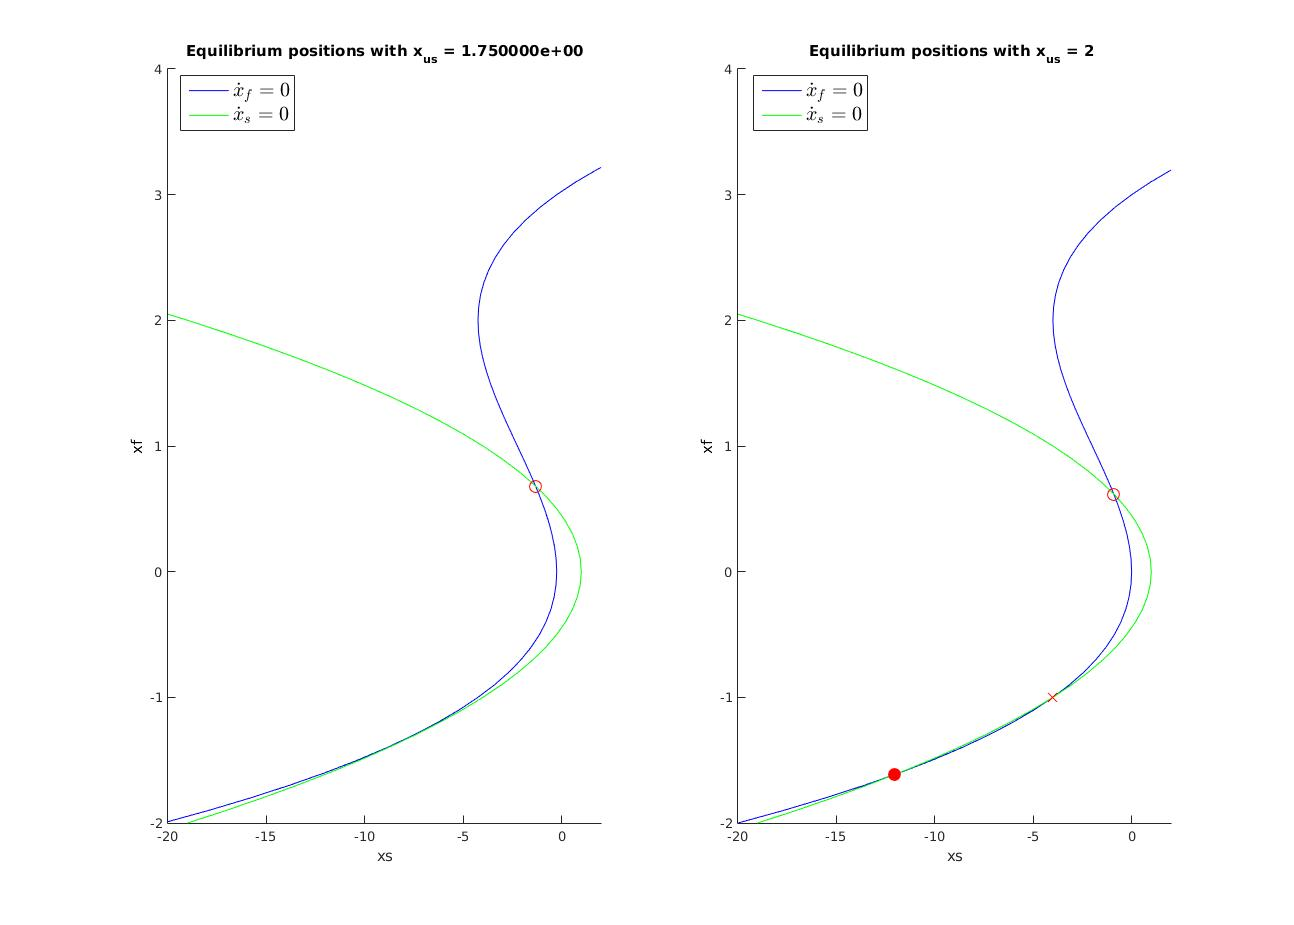
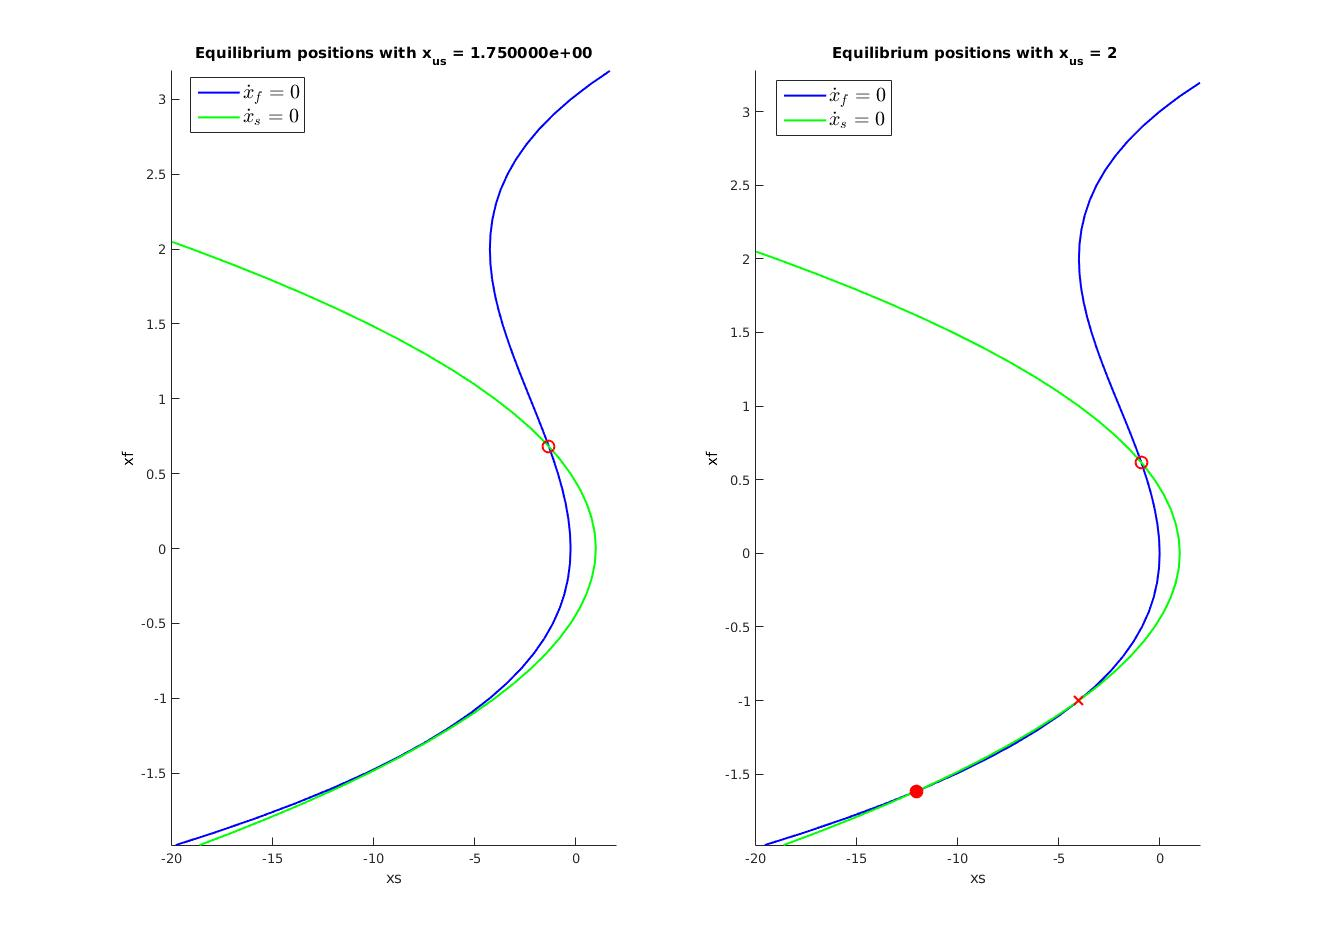
hRose figures

diff --git a/bursting/Bistability/hRose.m b/bursting/Bistability/hRose.m
@@ -89,9 +89,9 @@ for i = 1:N
     hold on
     z = alphaArray(i);
     H1 = ezplot(@(x,y) cubicNullcline2(y,x,z),[-20,5]);
-    set(H1,'LineColor','b')
+    set(H1,'LineColor','b','LineWidth',1.5)
     H2 = ezplot(@(x,y) quadraticNullcline(y,x),[-20,5]);
-    set(H2,'LineColor','g')
+    set(H2,'LineColor','g','LineWidth',1.5)
     l3 = legend('$\dot{x}_f = 0$','$\dot{x}_s = 0$');
     set(l3,'Interpreter','latex','FontSize',15)
     xlabel('xs')
@@ -108,7 +108,7 @@ h{2} = plot(-0.9075,0.6165,'or');
 h{3} = plot(-4,-1,'xr');
 h{4} = plot(-12.052,-1.6153,'or');
 for i = 1:4
-    set(h{i}, 'MarkerSize',9);
+    set(h{i}, 'MarkerSize',9,'LineWidth',1.5);
 end
 set(h{4},'MarkerEdgeColor','r','MarkerFaceColor','r');
 
